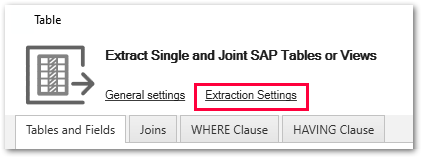
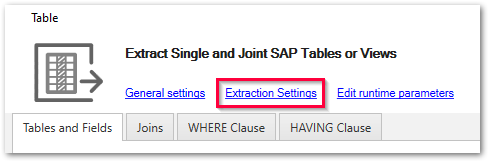
where clause runtime params in single include

Changed region(s): [[0.0308, 0.2532, 0.9858, 0.9114], [0.2464, 0.2785, 0.8934, 0.4051], [0.0616, 0.0759, 0.154, 0.1519]]

diff --git a/_includes/_content/en/edit-runtime-parameters.md b/_includes/_content/en/edit-runtime-parameters.md
@@ -5,7 +5,7 @@ Follow the steps below to create runtime parameters:
 
 1. In the main window of the component click {% if page.product == "xtract-for-alteryx" or page.product == "xtract-is" %}**Edit parameters**{% else %}**Edit Runtime Parameters**{% endif %}. 
 The window “Edit Runtime Parameters” opens.<br>
-{% if page.product == "xtract-for-alteryx" and page.parent == "odp"%}![Edit runtime parameters](/img/content/xfa/odp-edit-runtime-params.png){:class="img-responsive"}{% elsif page.product == "xtract-for-alteryx" and page.parent == "reports"%}![Edit runtime parameters](/img/content/xfa/report-edit-runtime-params.png){:class="img-responsive"}{% elsif page.product == "xtract-for-alteryx" and page.parent == "bw-cube"%}![Edit runtime parameters](/img/content/xfa/cube-edit-runtime-params.png){:class="img-responsive"}{% elsif page.product == "xtract-for-alteryx" and page.parent == "queries"%}![Edit runtime parameters](/img/content/xfa/query-edit-runtime-params.png){:class="img-responsive"}{% elsif page.product == "xtract-for-alteryx" and page.parent == "table"%}![Edit runtime parameters](/img/content/xfa/table-edit-runtime-params.png){:class="img-responsive"}{% elsif page.product == "xtract-for-alteryx" and page.parent == "bapi"%}![Edit runtime parameters](/img/content/xfa/BAPI-Edit-Parameters.png){:class="img-responsive"}{% elsif page.product == "xtract-universal" or page.product == "board-connector"%}{% if page.parent == "odp"%}![Edit runtime parameters](/img/content/xu/odp-edit-runtime-params.png){:class="img-responsive"}{% elsif page.parent == "bw-infocubes-and-bex-queries"%}![Edit runtime parameters](/img/content/xu/cube-edit-runtime-params.png){:class="img-responsive"}{% elsif page.parent == "sap-queries"%}![Edit runtime parameters](/img/content/xu/queries-edit-runtime-params.png){:class="img-responsive"}{% elsif page.parent == "bapis-and-function-modules"%}![Edit runtime parameters](/img/content/xu/bapi-edit-runtime-params.png){:class="img-responsive"}{% elsif page.parent == "abap-reports"%}![Edit runtime parameters](/img/content/xu/report-edit-runtime-params.png){:class="img-responsive"}{% endif %}{% else %}![Edit runtime parameters](/img/content/xis/odp-edit-runtime-params.png){:class="img-responsive"}{% endif %}
+{% if page.product == "xtract-for-alteryx" and page.parent == "odp"%}![Edit runtime parameters](/img/content/xfa/odp-edit-runtime-params.png){:class="img-responsive"}{% elsif page.product == "xtract-for-alteryx" and page.parent == "reports"%}![Edit runtime parameters](/img/content/xfa/report-edit-runtime-params.png){:class="img-responsive"}{% elsif page.product == "xtract-for-alteryx" and page.parent == "bw-cube"%}![Edit runtime parameters](/img/content/xfa/cube-edit-runtime-params.png){:class="img-responsive"}{% elsif page.product == "xtract-for-alteryx" and page.parent == "queries"%}![Edit runtime parameters](/img/content/xfa/query-edit-runtime-params.png){:class="img-responsive"}{% elsif page.product == "xtract-for-alteryx" and page.parent == "table"%}![Edit runtime parameters](/img/content/xfa/table-edit-runtime-params.png){:class="img-responsive"}{% elsif page.product == "xtract-for-alteryx" and page.parent == "bapi"%}![Edit runtime parameters](/img/content/xfa/BAPI-Edit-Parameters.png){:class="img-responsive"}{% elsif page.product == "xtract-universal" or page.product == "board-connector"%}{% if page.parent == "odp"%}![Edit runtime parameters](/img/content/xu/odp-edit-runtime-params.png){:class="img-responsive"}{% elsif page.parent == "bw-infocubes-and-bex-queries"%}![Edit runtime parameters](/img/content/xu/cube-edit-runtime-params.png){:class="img-responsive"}{% elsif page.parent == "sap-queries"%}![Edit runtime parameters](/img/content/xu/queries-edit-runtime-params.png){:class="img-responsive"}{% elsif page.parent == "bapis-and-function-modules"%}![Edit runtime parameters](/img/content/xu/bapi-edit-runtime-params.png){:class="img-responsive"}{% elsif page.parent == "table"%}![Edit runtime parameters](/img/content/open-edit-runtime-parameters.png){:class="img-responsive"}{% elsif page.parent == "abap-reports"%}![Edit runtime parameters](/img/content/xu/report-edit-runtime-params.png){:class="img-responsive"}{% endif %}{% else %}![Edit runtime parameters](/img/content/xis/odp-edit-runtime-params.png){:class="img-responsive"}{% endif %}
 2. Click **[Add Scalar]** to define scalar parameters to be used as placeholders for actual values.<br>
 Click **[Add List]** to define list parameters that contain multiple values separated by commas e.g., 1,10 or “1”, “10”. <br>
 The placeholders need to be populated with actual values at extraction runtime.<br>
@@ -17,6 +17,14 @@ The data types may correlate to SAP data types.
 - *Number*: Can be used for numeric SAP selection fields.
 - *Flag*: Can only be used for SAP selection fields, which require an ‘X’ (true) or a blank ‘‘ (false) as input value.
 4. Click **[OK]** to confirm.
+{% if page.parent == "table" %}5. Navigate to the WHERE clause tab in the main window of the extraction and open the WHERE clause editor.
+6. Add a new WHERE clause criteria that uses the **[Default with Parameter]** template.
+7. Click on the *Parameter* component. A drop-down list that displays all available parameters opens. 
+Select a parameter from the list.<br>
+![WHERE-Clause-Builder-Example](/img/content/where-clause-param.png){:class="img-responsive"}
+8. To test the WHERE clause, click **[Load live Preview]**. Provide parameter values when prompted.
+{% endif %}
+
 
 {% if page.product == "xtract-universal" %}
 Runtime parameters are overwritten at runtime, see [Extraction Parameters - Custom](../execute-and-automate-extractions/extraction-parameters#custom).
@@ -25,3 +33,15 @@ Runtime parameters are overwritten at runtime, see [Extraction Parameters - Cust
 Runtime parameters are overwritten at runtime, see [Extraction Parameters - Custom](../advanced-techniques/extraction-parameters#custom)
 {% endif %}
 
+{% if page.parent == "table" %}
+### Runtime Parameters in Text Mode
+
+Add an @ symbol before the value to mark it as a runtime parameter, e.g., enter `@myParameter` instead of a value.<br>
+{% if page.product == "xtract-universal" %}The marked value is overwritten at runtime, see [Extraction Parameters - Custom](../execute-and-automate-extractions/extraction-parameters#custom).{% endif %}
+{% if page.product == "board-connector" %}The marked value is overwritten at runtime, see [Extraction Parameters - Custom](../advanced-techniques/extraction-parameters#custom).{% endif %}
+
+Example: <br>
+`T001W~WERKS BETWEEN @PlantLow AND @PlantHigh`.
+
+![Extraction-User-Variables](/img/content/Extraction-User-Variables.png){:class="img-responsive"}
+{% endif %}

diff --git a/content/_en/xtract-universal/table/edit-runtime-parameters.md b/content/_en/xtract-universal/table/edit-runtime-parameters.md
@@ -14,4 +14,4 @@ old_url: /Xtract-Universal-EN/default.aspx?pageid=where-clause
 
 Runtime parameters can be created in context of using the WHERE clause.
 
-{% include _content/en/tables/where-clause-runtime-parameters.md %}
+{% include _content/en/edit-runtime-parameters.md %}

diff --git a/content/_en/board-connector/table/edit-runtime-parameters.md b/content/_en/board-connector/table/edit-runtime-parameters.md
@@ -14,4 +14,4 @@ progressstate: 5
 
 Runtime parameters can be created in context of using the WHERE clause.
 
-{% include _content/en/tables/where-clause-runtime-parameters.md %}
+{% include _content/en/edit-runtime-parameters.md %}

diff --git a/content/_en/xtract-for-alteryx/table/edit-runtime-parameters.md b/content/_en/xtract-for-alteryx/table/edit-runtime-parameters.md
@@ -13,7 +13,6 @@ lang: en_GB
 Use runtime parameters for dynamic [WHERE Clauses](./where-clause).
 
 {% include _content/en/edit-runtime-parameters.md %}
-
 {% include _content/en/alteryx-parameters.md %}
 
 #### Related Links
